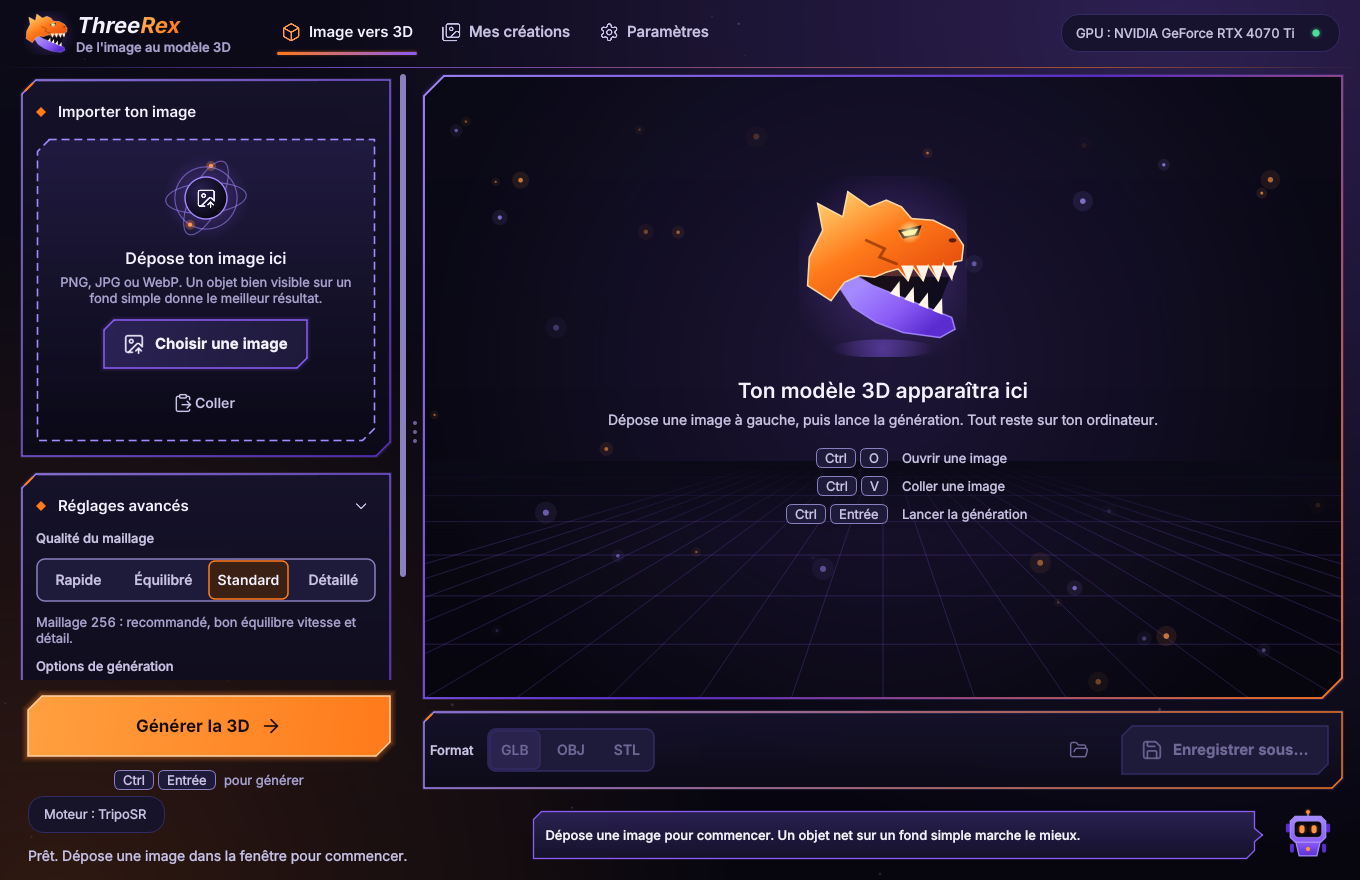
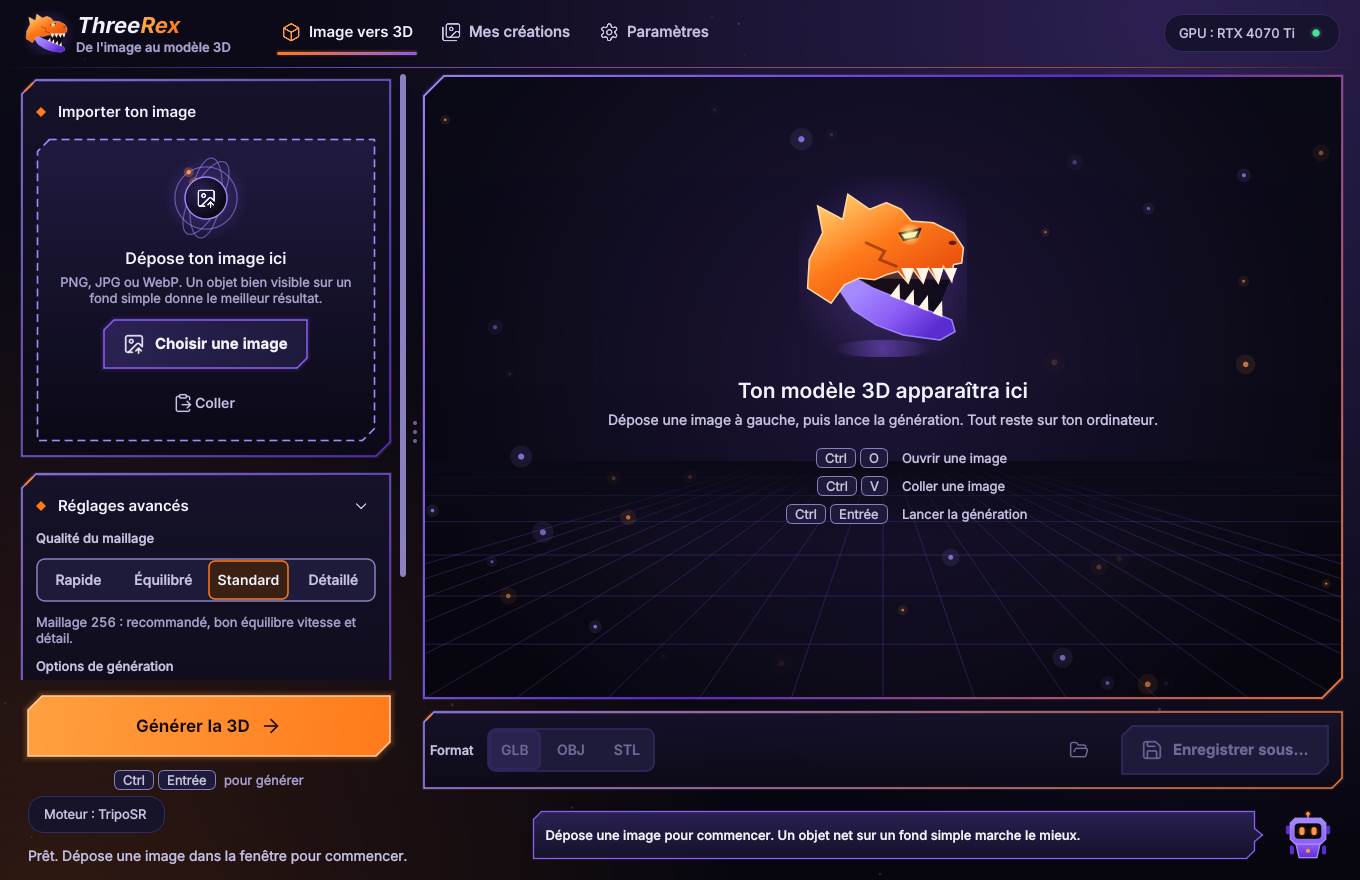
1.2

diff --git a/tests/test_theme.py b/tests/test_theme.py
@@ -16,6 +16,8 @@ from PySide6.QtWidgets import QApplication, QWidget  # noqa: E402
 from threerex import icons, theme, widgets  # noqa: E402
 from threerex.theme import TOKENS, Motion, Theme, build_qss, contrast  # noqa: E402
 
+# La vraie fonction, gardée avant que conftest.py ne la remplace pour chaque test (la CI Windows a les animations coupées).
+REAL_SYSTEM_MOTION = theme.system_prefers_reduced_motion
 REPO = Path(__file__).resolve().parents[1]
 MODES = ("dark",)
 SURFACES = ("bg-deep", "bg-app", "bg-viewport", "bg-panel", "bg-raised")
@@ -186,6 +188,62 @@ def test_motion_can_be_reduced_by_user_or_system():
     Motion.user_reduced = False
     Motion.system_reduced = True
     assert Motion.ms(200) == 0
+
+
+def test_system_motion_follows_the_windows_animation_setting(monkeypatch):
+    """« Afficher les animations dans Windows » coupé (SPI_GETCLIENTAREAANIMATION = 0) : mouvement réduit. Ailleurs : jamais."""
+    import ctypes
+    import types
+
+    def fake_windll(value: int):
+        def spi(action, param, ref, flags):
+            assert action == 0x1042
+            ref._obj.value = value
+            return 1
+
+        return types.SimpleNamespace(user32=types.SimpleNamespace(SystemParametersInfoW=spi))
+
+    with monkeypatch.context() as m:
+        m.setattr(theme.sys, "platform", "win32")
+        m.setattr(ctypes, "windll", fake_windll(0), raising=False)
+        assert REAL_SYSTEM_MOTION() is True
+        m.setattr(ctypes, "windll", fake_windll(1), raising=False)
+        assert REAL_SYSTEM_MOTION() is False
+        m.setattr(theme.sys, "platform", "linux")
+        assert REAL_SYSTEM_MOTION() is False
+    assert isinstance(REAL_SYSTEM_MOTION(), bool)  # sous Windows, l'appel réel ne plante pas
+
+
+def test_tests_do_not_depend_on_the_machine_animation_setting():
+    """Garde-fou de conftest.py : même si la machine coupe les animations, l'interface testée les garde."""
+    Motion.refresh(False, False)
+    assert Motion.enabled() and Motion.ambient()
+
+
+def test_gpu_name_is_shortened_but_the_full_name_stays_in_the_tooltip(app):
+    assert widgets.short_device("GPU : NVIDIA GeForce RTX 4070 Ti") == "GPU : RTX 4070 Ti"
+    assert widgets.short_device("GPU : NVIDIA RTX A6000") == "GPU : RTX A6000"
+    assert widgets.short_device("GPU : GeForce GTX 1080") == "GPU : GTX 1080"
+    assert widgets.short_device("GPU : Quadro P2000") == "GPU : Quadro P2000"
+    assert widgets.short_device("GPU : NVIDIA ") == "GPU : NVIDIA "  # rien ne reste : on garde le texte d'origine
+    assert widgets.short_device("Processeur (lent : aucun GPU CUDA détecté)") == "Processeur (lent : aucun GPU CUDA détecté)"
+    chip = widgets.HardwareChip()
+    chip.set_device("GPU : NVIDIA GeForce RTX 4070 Ti")
+    assert chip._text.text() == "GPU : RTX 4070 Ti"
+    assert chip.toolTip() == "GPU : NVIDIA GeForce RTX 4070 Ti"
+    assert "NVIDIA GeForce RTX 4070 Ti" in chip.accessibleName()
+
+
+def test_resize_watcher_reports_each_size_change(app, stage):
+    seen = []
+    box = QWidget(stage)
+    box.resize(100, 30)
+    watcher = widgets.ResizeWatcher(box, lambda: seen.append(box.width()))
+    box.show()
+    box.resize(140, 30)
+    box.resize(160, 30)
+    assert seen[-2:] == [140, 160] and watcher.parent() is box
+    box.deleteLater()
 
 
 def test_animate_jumps_when_motion_is_reduced(app):

diff --git a/src/threerex/studio.py b/src/threerex/studio.py
@@ -93,6 +93,7 @@ from .widgets import (
     IconButton,
     IndeterminateBar,
     KeyCap,
+    ResizeWatcher,
     Segmented,
     make_button,
     qimage_to_pil,
@@ -829,6 +830,9 @@ class MainWindow(QMainWindow):
         self.status = ElidedLabel()
         self.status.setProperty("role", "secondary")
         left.addWidget(self.status)
+        self._fitting_footer = False
+        # la ligne d'état a la largeur de la colonne de gauche : c'est elle qui dit la place réelle des pastilles
+        self._status_watch = ResizeWatcher(self.status, self._fit_footer)
         h.addLayout(left, 2)
         self.progress = IndeterminateBar()
         self.progress.setFixedWidth(theme.current().px(140))
@@ -1223,19 +1227,27 @@ class MainWindow(QMainWindow):
         self._fit_footer()
 
     def _fit_footer(self) -> None:
-        """Sur une fenêtre étroite, les pastilles disparaissent l'une après l'autre plutôt que d'être coupées."""
-        if not hasattr(self, "pill_image"):
+        """Sur une fenêtre étroite, les pastilles disparaissent l'une après l'autre plutôt que d'être coupées.
+
+        La place est la largeur mesurée de la colonne de gauche (celle de la ligne d'état), pas une part estimée de la fenêtre :
+        la largeur des textes change d'une machine et d'une police à l'autre, et une estimation trop large coupait la dernière
+        pastille sous Windows."""
+        if not hasattr(self, "pill_image") or self._fitting_footer:
             return
-        t = theme.current()
-        pills = [p for p in (self.pill_image, self.pill_engine, self.pill_time) if p.text()]
-        room = int(self._footer.width() * 0.6) - t.px(60)
-        used = 0
-        for pill in pills:
-            need = pill.sizeHint().width() + t.px(8)
-            fits = used + need <= room
-            pill.setVisible(fits)
-            used += need if fits else 0
-        self.pills.setVisible(any(p.text() for p in pills) and used > 0)
+        self._fitting_footer = True
+        try:
+            pills = [p for p in (self.pill_image, self.pill_engine, self.pill_time) if p.text()]
+            room = self.status.width()
+            used = 0
+            for pill in pills:
+                need = pill.sizeHint().width() + (self.pills.layout().spacing() if used else 0)
+                fits = used + need <= room
+                pill.setVisible(fits)
+                if fits:
+                    used += need
+            self.pills.setVisible(used > 0)
+        finally:
+            self._fitting_footer = False
 
     def _assistant_text(self) -> str:
         if self._tip_override:

diff --git a/src/threerex/widgets.py b/src/threerex/widgets.py
@@ -16,6 +16,7 @@ from typing import Any
 from PIL import Image
 from PySide6.QtCore import (
     QEvent,
+    QObject,
     QPoint,
     QPointF,
     QPropertyAnimation,
@@ -545,8 +546,38 @@ class KeyCap(QLabel):
         self.setAccessibleName(text)
 
 
+class ResizeWatcher(QObject):
+    """Appelle `callback` chaque fois que `target` change de taille (sans sous-classer le widget). Sert à recaler un
+    élément sur la place réellement disponible, mesurée après la mise en page, et non sur une estimation."""
+
+    def __init__(self, target: QWidget, callback: Callable[[], None]) -> None:
+        super().__init__(target)
+        self._callback = callback
+        target.installEventFilter(self)
+
+    def eventFilter(self, obj, event) -> bool:  # noqa: N802
+        if event.type() == QEvent.Type.Resize:
+            self._callback()
+        return False
+
+
+_VENDOR_WORDS = ("NVIDIA ", "GeForce ")
+
+
+def short_device(text: str) -> str:
+    """« GPU : NVIDIA GeForce RTX 4070 Ti » devient « GPU : RTX 4070 Ti » : la marque est connue, et la barre du haut doit
+    rester lisible sur la plus petite fenêtre. Le nom complet reste dans l'infobulle et dans la page Paramètres."""
+    head, sep, name = text.partition(" : ")
+    if not sep or head != "GPU":
+        return text
+    for word in _VENDOR_WORDS:
+        if name.startswith(word):
+            name = name[len(word):]
+    return f"GPU : {name}" if name else text
+
+
 class HardwareChip(QFrame):
-    """Pastille d'état du calcul : « GPU : NVIDIA ... » avec un point vert lumineux, ou « Processeur (lent) » avec un point
+    """Pastille d'état du calcul : « GPU : RTX ... » avec un point vert lumineux, ou « Processeur (lent) » avec un point
     ambre (avertissement). Le point n'est jamais la seule information : le texte dit la même chose."""
 
     def __init__(self, parent: QWidget | None = None) -> None:
@@ -569,7 +600,7 @@ class HardwareChip(QFrame):
     def set_device(self, text: str) -> None:
         self._full = text
         self._gpu = text.startswith("GPU")
-        self._text.setText(text)  # ElidedLabel : se coupe seul quand la barre manque de place
+        self._text.setText(short_device(text))  # ElidedLabel : se coupe seul si la barre manque quand même de place
         self.setToolTip(text)
         self.setAccessibleName(f"Calcul : {text}")
         self.setVisible(bool(text))

diff --git a/tests/conftest.py b/tests/conftest.py
@@ -5,6 +5,8 @@ import sys
 import tempfile
 from pathlib import Path
 
+import pytest
+
 REPO = Path(__file__).resolve().parents[1]
 SRC = REPO / "src"
 
@@ -13,3 +15,14 @@ os.environ.setdefault("QT_QPA_PLATFORM", "offscreen")
 os.environ.setdefault("THREEREX_DATA", tempfile.mkdtemp(prefix="i3d_test_data_"))
 if str(SRC) not in sys.path:
     sys.path.insert(0, str(SRC))
+
+
+@pytest.fixture(autouse=True)
+def _ignore_system_motion_setting(monkeypatch):
+    """Les tests ne dépendent pas du réglage « Afficher les animations dans Windows » de la machine : les serveurs de CI le
+    coupent, et l'application passerait alors en mouvement réduit (comportement voulu, mais qui fausserait les tests)."""
+    try:
+        from threerex import theme
+    except ImportError:  # PySide6 absent : aucune interface à neutraliser
+        return
+    monkeypatch.setattr(theme, "system_prefers_reduced_motion", lambda: False)

diff --git a/tests/scenarios/studio_ui.py b/tests/scenarios/studio_ui.py
@@ -30,6 +30,9 @@ def new_settings():
 from threerex import printing, studio, theme
 from threerex.theme import Motion
 
+# Un serveur Windows a souvent « Afficher les animations » coupé : le scénario ne doit pas dépendre du réglage de la machine.
+theme.system_prefers_reduced_motion = lambda: False
+
 
 class StubPrintDialog:
     """Remplace la fenêtre « Impression 3D » (elle bloquerait le test) : mêmes arguments, réponse programmée."""

diff --git a/tests/scenarios/layout_audit.py b/tests/scenarios/layout_audit.py
@@ -40,6 +40,7 @@ from threerex.printing import HEIGHT_RANGE_MM, PrintOptions
 from threerex.widgets import ElidedLabel
 
 fx.Clock.require_active = False
+theme.system_prefers_reduced_motion = lambda: False  # indépendant du réglage « animations » de Windows (serveurs de CI)
 
 SIZES = ((1000, 680), (1180, 760), (1360, 880), (1920, 1040))
 SCALES = (1.0, 1.15, 1.3)

diff --git a/docs/DESIGN.md b/docs/DESIGN.md
@@ -55,7 +55,8 @@ d'eux-mêmes pendant un geste dans le visualiseur, et un réglage « Effets visu
 ```
 
 - **Barre du haut** : logo, trois onglets (Ctrl+1, Ctrl+2, Ctrl+3) et pastille du calcul (vert « GPU : … » ou ambre
-  « Processeur (lent) »). Sous 1160 px de large, l'accroche du logo disparaît pour laisser la place au nom de la carte.
+  « Processeur (lent) »). Sous 1160 px de large, l'accroche du logo disparaît pour laisser la place au nom de la carte ;
+  la marque est retirée du nom affiché (« GPU : RTX 4070 Ti »), le nom complet reste dans l'infobulle.
 - **Panneau de gauche** : « Importer ton image » (zone de dépôt avec halo animé ; à l'import, une ligne lumineuse balaie
   l'image), « Réglages avancés » repliable, bouton principal toujours visible en bas.
 - **Visualiseur** : quatre pages (vide, calcul, résultat, erreur). Résultat : gestes Faire pivoter / Déplacer / Zoom /
@@ -63,7 +64,8 @@ d'eux-mêmes pendant un geste dans le visualiseur, et un réglage « Effets visu
   sélecteur de variante. Une transition fait se dissoudre l'image d'origine sur le modèle (900 ms ; absente si les
   effets sont coupés).
 - **Pied de page** : pastilles, ligne d'état, barre de progression (pendant un calcul), bulle et robot. Les pastilles
-  disparaissent l'une après l'autre quand la place manque ; le robot n'est jamais coupé.
+  disparaissent l'une après l'autre quand la place manque (la place est la largeur mesurée de la colonne de gauche, pas une
+  estimation : les textes n'ont pas la même largeur d'une machine à l'autre) ; le robot n'est jamais coupé.
 - **Mes créations** : les fichiers réellement enregistrés (vignette = image de départ, moteur, taille, date). Retirer une
   carte **ne supprime jamais le fichier**. Un fichier déplacé est signalé « Fichier introuvable ».
 - **Paramètres** : taille du texte, animations, effets visuels, carte graphique, dossier des données, prompt ChatGPT,
@@ -205,6 +207,7 @@ passe sous un autre, défilement horizontal, bulle tronquée. Il a trouvé plusi
   visualiseur OpenGL ne peut pas s'y exécuter : ses couleurs, la rotation automatique, les gestes à la souris et l'animation de la
   transition n'ont pas été vus à l'écran.
 - La police est vérifiée comme présente et chargeable ; le rendu des graisses 500 et 600 sous Windows n'a pas été vérifié.
+  La CI Windows a toutefois déjà montré que les largeurs de texte y diffèrent de quelques pixels de celles de Linux : toute mise en page doit garder une vraie marge ou se régler sur la place mesurée.
 - La barre de titre sombre sous Windows passe par une API du système (DWM) qui n'a pas pu être essayée ici ; en cas d'échec,
   la barre de titre reste celle de Windows.
 - L'animation de reconstruction pendant le calcul est un décor, pas une mesure d'avancement.

diff --git a/CHANGELOG.md b/CHANGELOG.md
@@ -60,6 +60,13 @@ Format inspiré de [Keep a Changelog](https://keepachangelog.com/fr/1.1.0/) ; nu
 - Nouvelle icône de l'application : la tête de T-Rex de la mascotte (`scripts/make_icon.py`).
 
 ### Corrigé
+- Mise en page sous Windows (trouvé par la CI) : le nom du GPU était coupé dans la barre du haut sur la fenêtre la plus petite,
+  et la pastille « Dernière génération » était rognée à 130 % de texte. La barre du haut affiche maintenant « GPU : RTX 4070 Ti »
+  (le nom complet reste dans l'infobulle et la page Paramètres) ; les pastilles du pied de page se règlent sur la largeur réelle
+  de leur colonne, mesurée après la mise en page, au lieu d'une part estimée de la fenêtre.
+- Tests : ils ne dépendent plus du réglage « Afficher les animations dans Windows » de la machine (les serveurs de CI le coupent,
+  l'application passait en mouvement réduit et trois contrôles échouaient). Le comportement de l'application, lui, n'a pas changé :
+  elle respecte toujours ce réglage. La lecture du réglage est maintenant testée avec un faux appel Windows.
 - Plantage `QListView.update() takes exactly one argument` avec PySide6 6.9 (le rafraîchissement du thème appelait `update()`
   sans argument sur les vues) ; test de non-régression ajouté.
 - Release : le rapport des licences est écrit à la racine du dépôt, et les journaux d'échec de l'installateur sont envoyables.

diff --git a/docs/DEVELOPMENT.md b/docs/DEVELOPMENT.md
@@ -35,6 +35,9 @@ python -m pytest            # tout (environ 20 secondes) ; PyTorch n'est pas né
 ruff check .                # analyse statique
 ```
 
+- Les tests ignorent le réglage « Afficher les animations dans Windows » de la machine (`tests/conftest.py`, et une ligne au début
+  de chaque scénario d'interface) : les serveurs de CI le coupent. Un test qui a besoin du vrai réglage garde la fonction
+  `theme.system_prefers_reduced_motion` avant que `conftest.py` ne la remplace (voir `tests/test_theme.py`).
 - `tests/test_*.py` : tests unitaires (chemins, remplaçant de `torchmcubes`, rapport de licences, garde-fous de licence,
   contrôles du paquetage).
 - `tests/scenarios/*.py` : scénarios de bout en bout, lancés chacun dans un processus séparé par `tests/test_scenarios.py`
